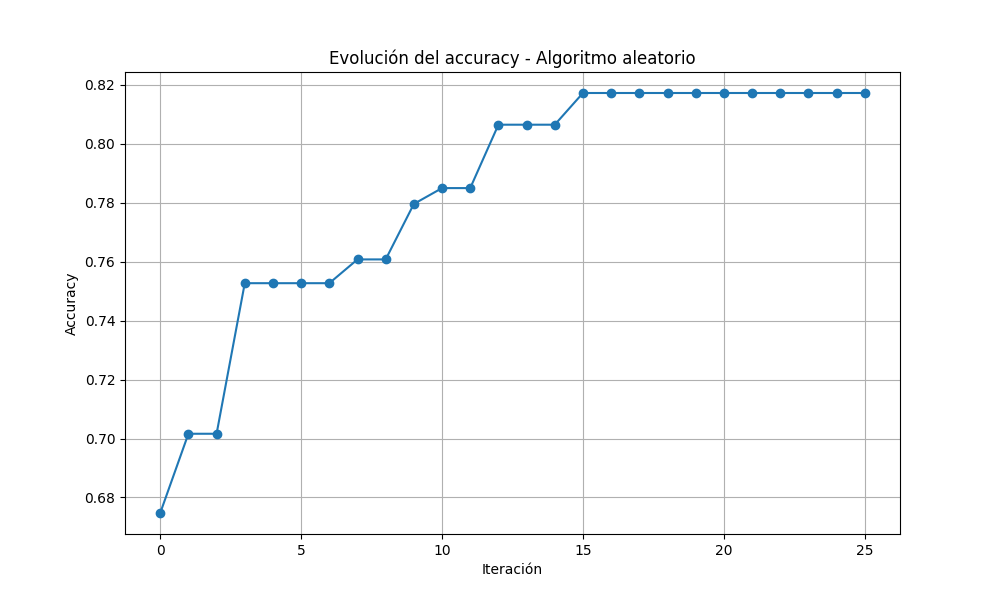
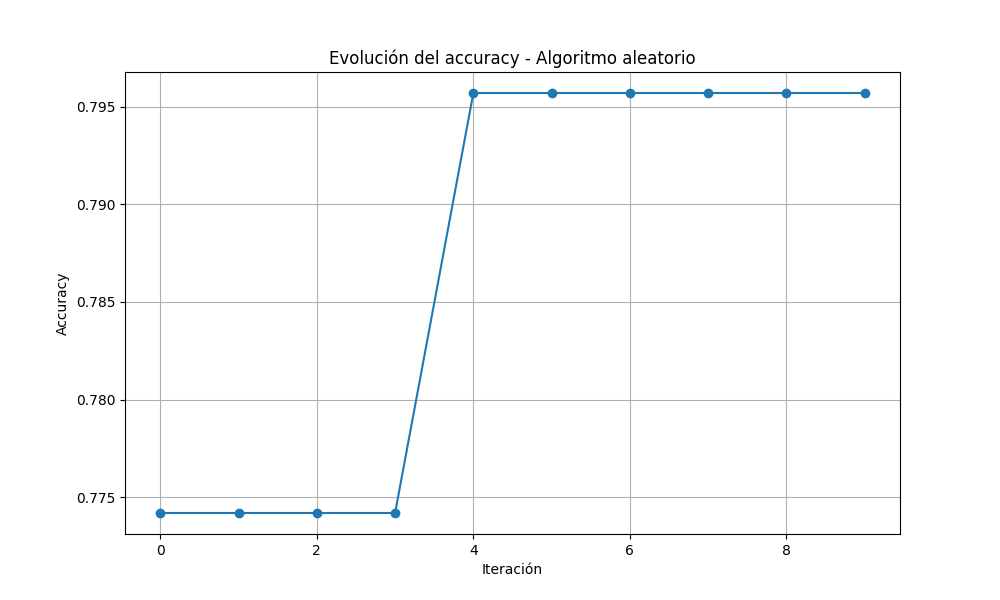
Añadidas nuevas comprobaciones

diff --git a/src/main.py b/src/main.py
@@ -18,6 +18,7 @@ def set_seed(seed):
     torch.cuda.manual_seed_all(seed)
     np.random.seed(seed)
     random.seed(seed)
+    torch.use_deterministic_algorithms(True)
     torch.backends.cudnn.deterministic = True
     torch.backends.cudnn.benchmark = False
 
@@ -100,6 +101,7 @@ def main(
     end = datetime.datetime.now()
     print("End time: " + str(end))
     print("Duration: " + str(end - start))
+    print(f"\n\nMejor {metric} al acabar el algoritmo: {best_fitness:.4f}")
 
     if best_fitness != 0.0:
         print("\n\nFitness check:\n")
@@ -115,7 +117,7 @@ def main(
 if __name__ == "__main__":
     print(f"GPU: {torch.cuda.is_available()}")
 
-    # main(10, 100, 10, "aleatorio", "accuracy", "mobilnet")
+    main(10, 10, 10, "aleatorio", "accuracy", "mobilnet")
     #  main(10, 100, 10, "busqueda local", "accuracy", "mobilnet")
     # main(10, 100, 10, "genetico", "accuracy", "mobilnet")
-    main(10, 100, 10, "memetico", "accuracy", "mobilnet")
+    # main(10, 100, 10, "memetico", "accuracy", "mobilnet")

diff --git a/utils/utils.py b/utils/utils.py
@@ -219,9 +219,10 @@ def fitness(dict_selection: dict, metric: str, model_name: str = "resnet", evalu
         torch.cuda.empty_cache()
         print(f"Memory Allocated after cleanup: {torch.cuda.memory_allocated(0) / 1024 ** 2:.2f} MB")
 
-    with open("results/evaluations_logs.txt", "a") as file:
-        file.write(f"Evaluación {evaluations+1} -> {str(datetime.datetime.now())}\n")
-        file.flush()  # Forzar la escritura inmediata al disco
+    if evaluations is not None:
+        with open("results/evaluations_logs.txt", "a") as file:
+            file.write(f"Evaluación {str(evaluations+1)} -> {str(datetime.datetime.now())}\n")
+            file.flush()  # Forzar la escritura inmediata al disco
 
     if metric == "accuracy":
         return accuracy
